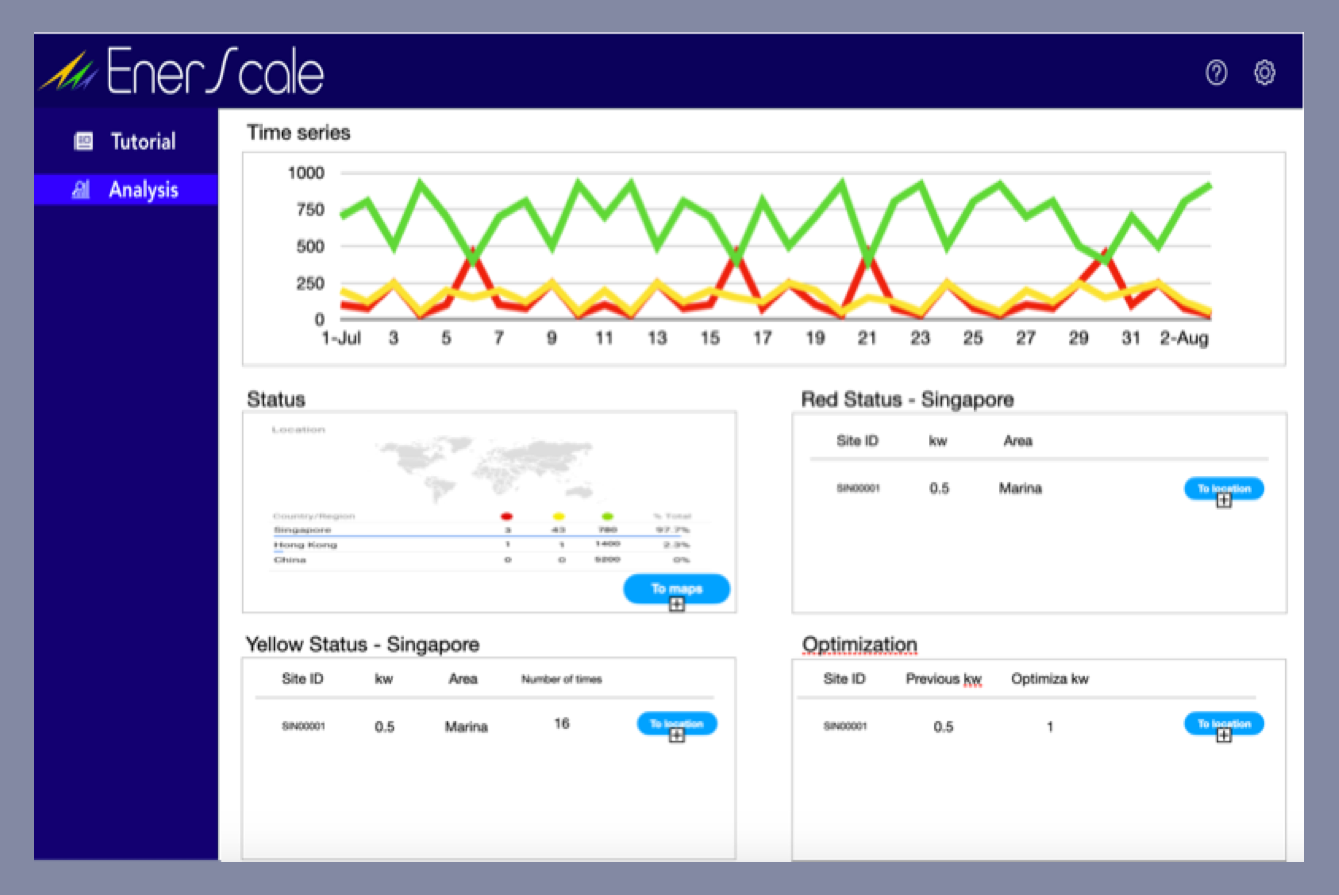
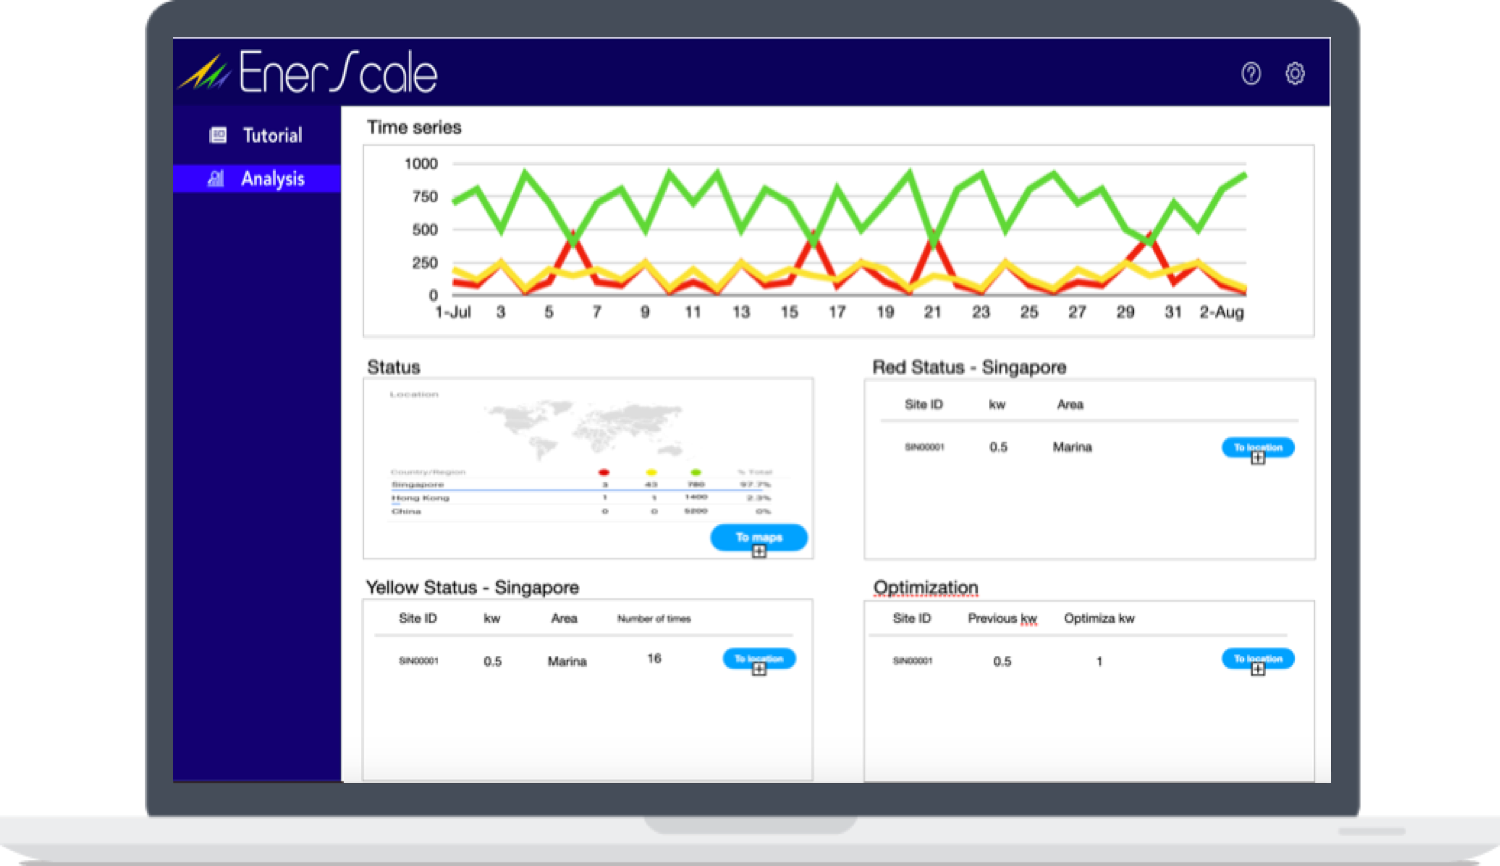
Update image

diff --git a/index.html b/index.html
@@ -223,7 +223,7 @@
       </div>
 　　　　 <h2 class="headingtitle">オフグリッド電力向けのエネルギーデータプラットフォーム</h2>
       <div class="enedata">
-        <img src="img/test.png" width="645" height="433">
+        <img src="img/test.png" width="750" height="433">
       </div>
 
       <div class="space60"></div>
